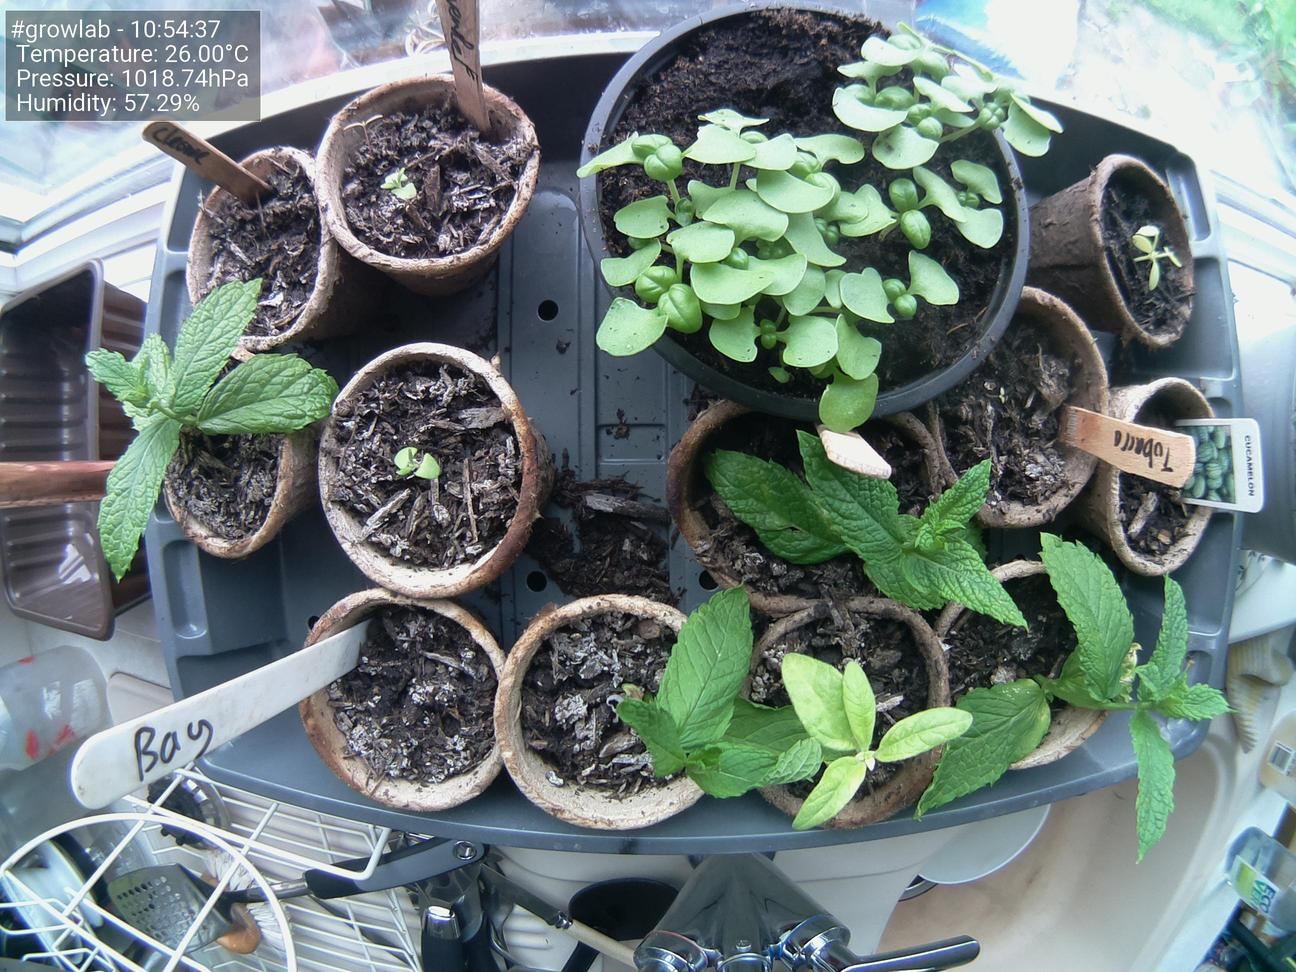
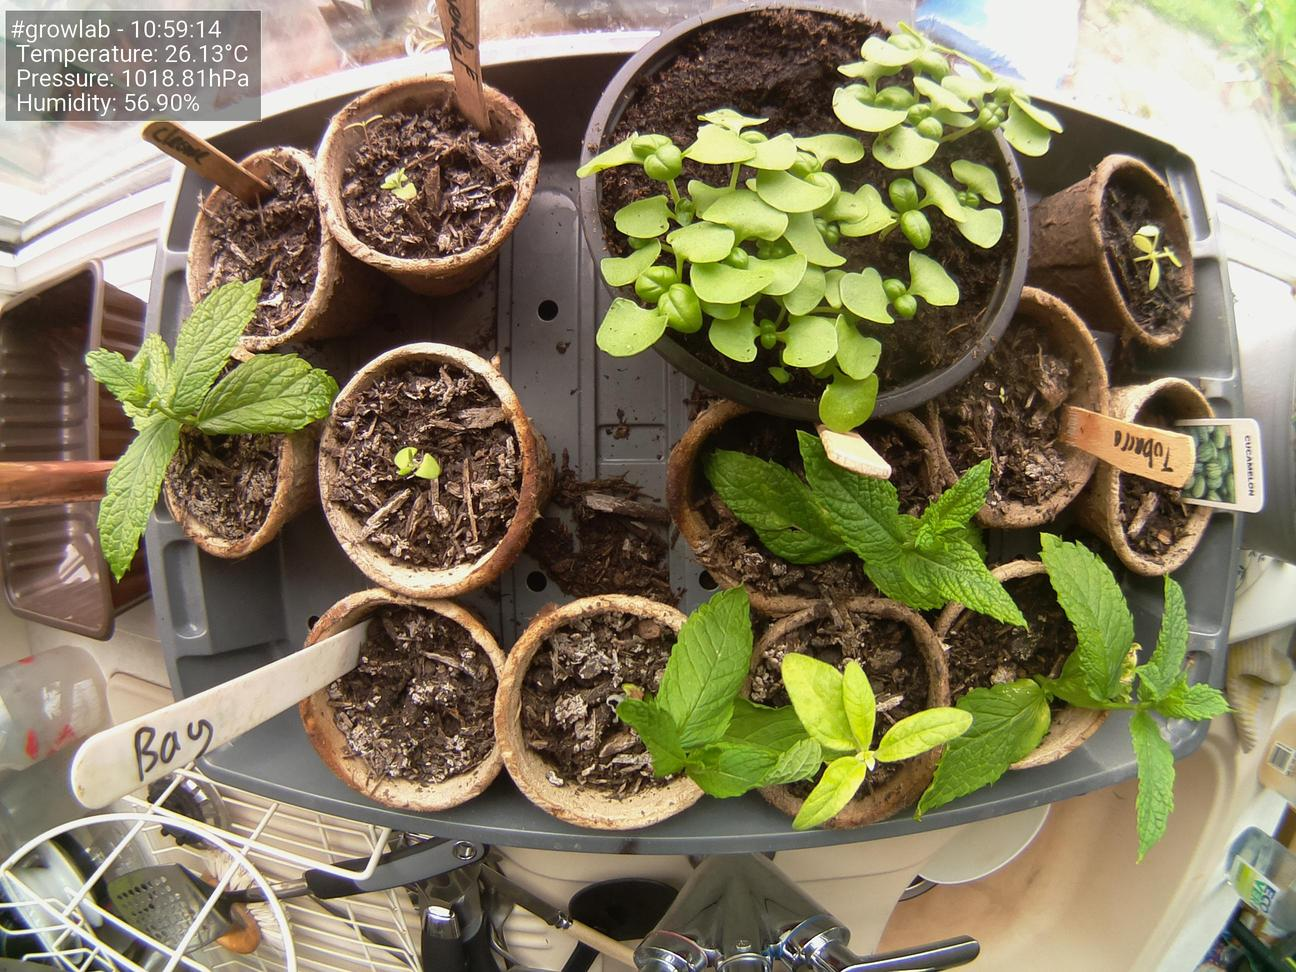
Update images at Thu  8 Jul 10:59:23 BST 2021

diff --git a/docs/index.html b/docs/index.html
@@ -47,19 +47,19 @@
                         <tbody>
                             <tr>
                                 <td>Time</td>
-                                <td>10:54:37</td>
+                                <td>10:59:14</td>
                             </tr>
                             <tr>
                                 <td>Temperature</td>
-                                <td>26.00°C</td>
+                                <td>26.13°C</td>
                             </tr>
                             <tr>
                                 <td>Humidity</td>
-                                <td>57.29%</td>
+                                <td>56.90%</td>
                             </tr>
                             <tr>
                                 <td>Pressure</td>
-                                <td>1018.74hPa</td>
+                                <td>1018.81hPa</td>
                             </tr>
                         </tbody>
                     </table>
@@ -67,7 +67,7 @@
 
                 <h5>Latest image</h5>
                 <div style="width: 85%;">
-                            <img class="figure-img img-fluid rounded" src="./preview.jpg?uid=1625738086.3154209">
+                            <img class="figure-img img-fluid rounded" src="./preview.jpg?uid=1625738362.918423">
                 </div>
             </div>
         </div>
